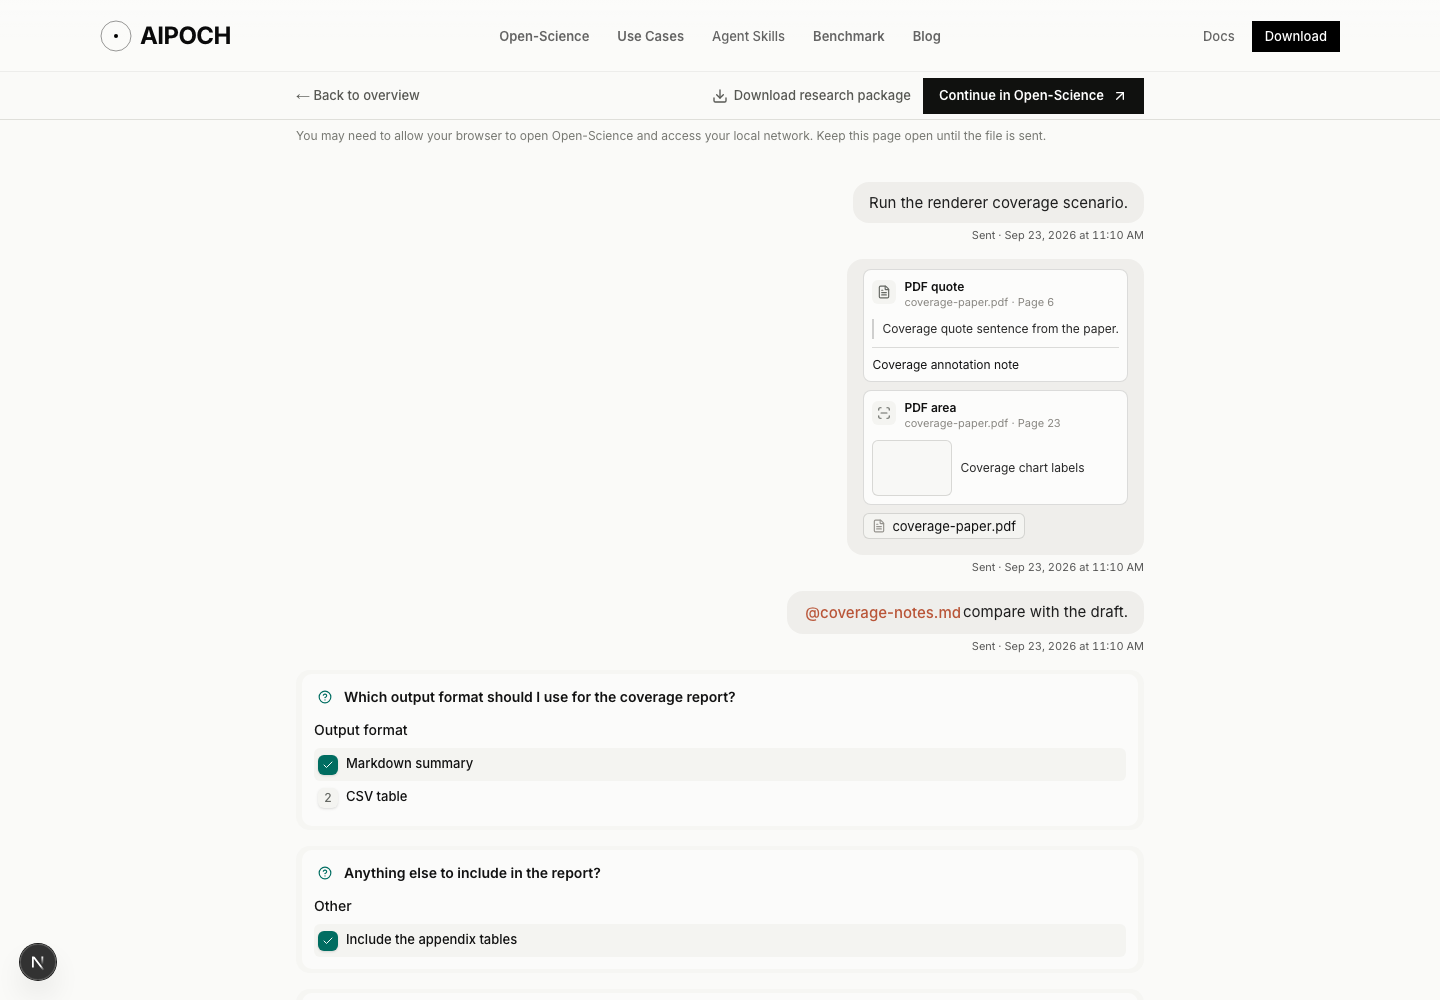
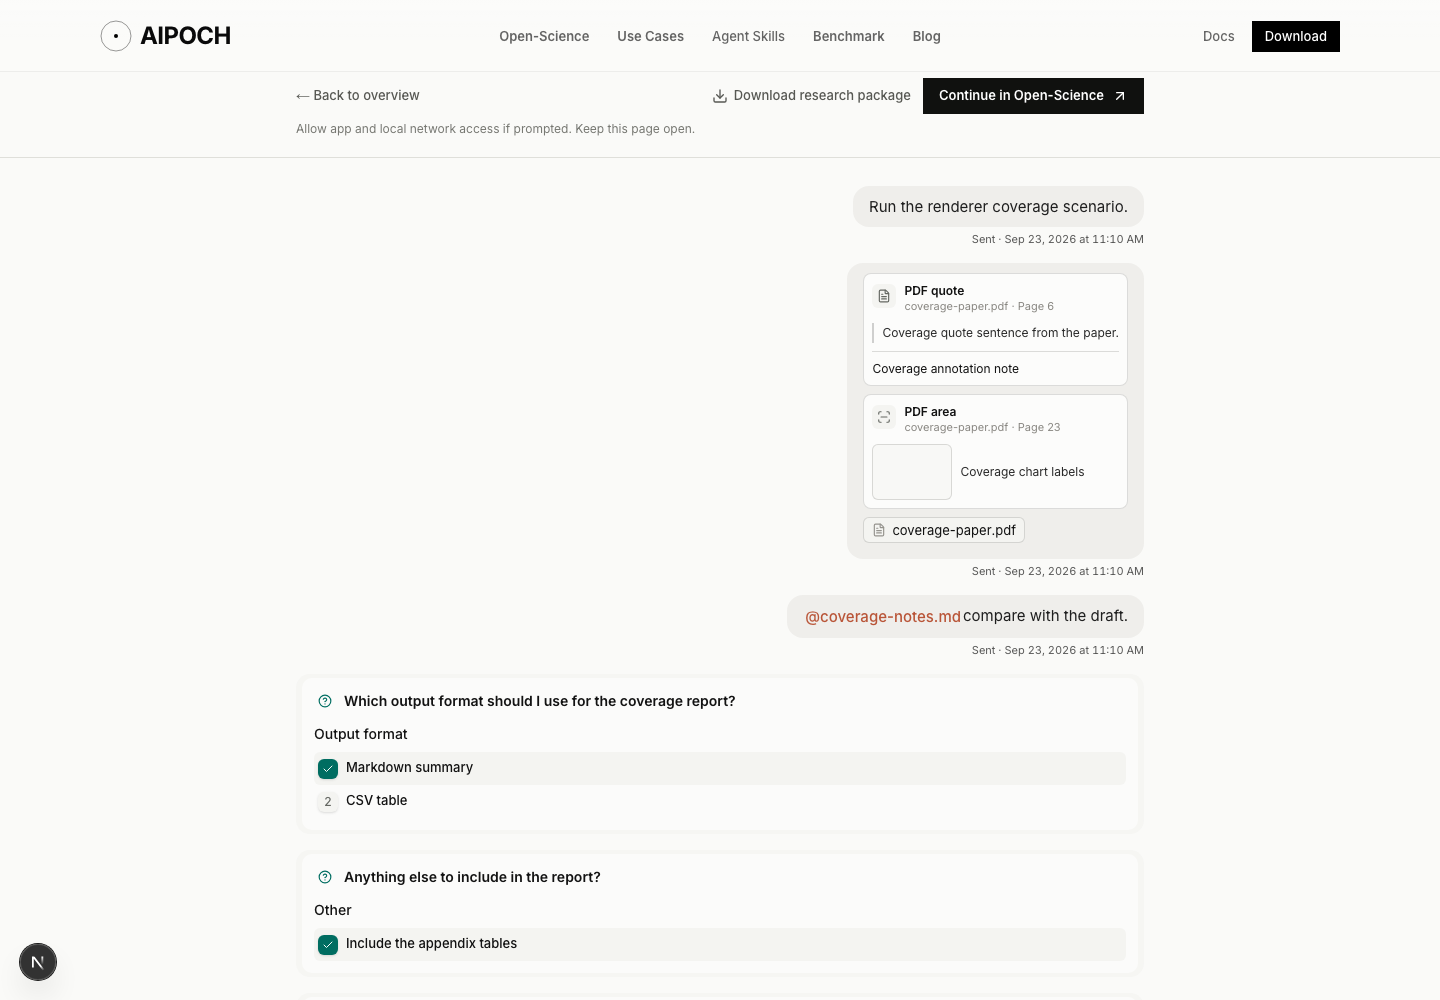
fix(open-science): keep compact import feedback in replay toolbar

diff --git a/app/(commonLayout)/open-science/use-cases/_components/science-import-controls.tsx b/app/(commonLayout)/open-science/use-cases/_components/science-import-controls.tsx
@@ -164,7 +164,7 @@ export const ScienceImportButton = ({
 }
 
 /** Keep every recovery action and browser permission hint beside each entry point. */
-export const ScienceImportFeedback = () => {
+export const ScienceImportFeedback = ({ compact = false }: { compact?: boolean }) => {
   const {
     state,
     session,
@@ -175,15 +175,24 @@ export const ScienceImportFeedback = () => {
   const downloadPrompt = 'download it first'
   const inlineDownload = needsApp && state.message?.endsWith(`${downloadPrompt}.`)
   const waitingTimedOut = state.phase === 'ready' && state.action === 'resume'
+  const opening = state.phase === 'opening' || state.action === 'resume'
+  // The sticky toolbar shows only the current guidance; completed transfers need no permissions.
+  const showPermissionHint = !compact || !state.message || opening
+  const message =
+    compact && state.phase === 'received' ? 'File sent. Confirm in Open-Science.' : state.message
   return (
     <>
-      <p className="mt-1.5 text-xs leading-5 text-[#777872]">
-        <span>
-          {state.phase === 'opening' || state.action === 'resume'
-            ? 'If your browser asks to open Open-Science, choose Open. You may also need to allow local network access.'
-            : 'You may need to allow your browser to open Open-Science and access your local network. Keep this page open until the file is sent.'}
-        </span>
-      </p>
+      {showPermissionHint ? (
+        <p className={`${compact ? '' : 'mt-1.5'} text-xs leading-5 text-[#777872]`}>
+          {compact
+            ? opening
+              ? 'Choose Open and allow local network access if prompted.'
+              : 'Allow app and local network access if prompted. Keep this page open.'
+            : opening
+              ? 'If your browser asks to open Open-Science, choose Open. You may also need to allow local network access.'
+              : 'You may need to allow your browser to open Open-Science and access your local network. Keep this page open until the file is sent.'}
+        </p>
+      ) : null}
       <div className="space-y-2 text-[13px] leading-6 text-[#777872]">
         <div className="flex items-center gap-x-4">
           <p
@@ -213,17 +222,17 @@ export const ScienceImportFeedback = () => {
                 .
               </>
             ) : (
-              state.message
+              message
             )}{' '}
             {state.phase === 'received' ? (
               <span>
-                Clicked Cancel by mistake?{' '}
+                {compact ? '' : 'Clicked Cancel by mistake? '}
                 <button
                   type="button"
                   onClick={() => void session.current?.retryImport()}
                   className="font-medium text-[#10110f] underline underline-offset-4"
                 >
-                  Retry the import.
+                  {compact ? 'Retry import' : 'Retry the import.'}
                 </button>
               </span>
             ) : null}

diff --git a/tests/integration/browser-science-import.test.ts b/tests/integration/browser-science-import.test.ts
@@ -269,7 +269,15 @@ for (const surface of ['composer', 'detail']) {
           'File sent to Open-Science. Please confirm the import in the app.'
         )
         await expect(openButton).toBeEnabled()
-        await expect(otherControls.getByRole('status')).toContainText('File sent to Open-Science')
+        await expect(otherControls.getByRole('status')).toContainText(
+          surface === 'composer'
+            ? 'File sent. Confirm in Open-Science.'
+            : 'File sent to Open-Science'
+        )
+        if (surface === 'composer') {
+          await expect(otherControls.getByText(/allow local network access/)).toHaveCount(0)
+          await expect(otherControls.getByText(/Clicked Cancel by mistake/)).toHaveCount(0)
+        }
         await expect(announcements).toHaveCount(1)
         await expect(announcements).toContainText('File sent to Open-Science')
         const receivedSnapshot = await snapshot()
@@ -285,9 +293,12 @@ for (const surface of ['composer', 'detail']) {
         await expect(controls.getByText(/You may need to allow your browser/)).toBeVisible()
         await expect(controls.getByText('Import successful', { exact: true })).toHaveCount(0)
         unitExpect(downloads).toBe(count + 1)
-        const retryImport = controls
+        const retryImport = (surface === 'composer' ? otherControls : controls)
           .getByRole('status')
-          .getByRole('button', { name: 'Retry the import.', exact: true })
+          .getByRole('button', {
+            name: surface === 'composer' ? 'Retry import' : 'Retry the import.',
+            exact: true
+          })
         await expect(retryImport).toBeVisible()
         await expect(retryImport).toHaveClass(/underline/)
         const beforeRetry = await snapshot()

diff --git a/tests/integration/use-case-import-browser.ts b/tests/integration/use-case-import-browser.ts
@@ -56,8 +56,15 @@ export async function verifyImportPreparation(
       await expect(open).toHaveCSS('background-color', 'rgb(16, 17, 15)')
       await expect(open).toHaveCSS('color', 'rgb(255, 255, 255)')
       await expect(open).toHaveCSS('font-size', '13px')
-      // The original 47px row plus its 1px bottom border.
-      if (!mobile) expect((await composer.boundingBox())?.height).toBe(48)
+      // Keep the original action row; the compact feedback now belongs to the sticky toolbar.
+      if (!mobile) expect((await composer.locator(':scope > div').boundingBox())?.height).toBe(47)
+      await expect(
+        composer.getByRole('region', { name: 'Replay import feedback', exact: true })
+      ).toHaveCount(1)
+      await opposite.scrollIntoViewIfNeeded()
+      await expect(feedback).toBeInViewport()
+      await expect(open).toBeInViewport()
+      await page.evaluate(() => window.scrollTo(0, 0))
       const downloadBox = await composer
         .getByRole('link', { name: 'Download research package', exact: true })
         .boundingBox()
@@ -130,7 +137,8 @@ export async function verifyImportPreparation(
     })
     await expect(busyButton).toBeDisabled()
     await expect(busyButton).toContainText('0%')
-    if (!detail && !mobile) expect((await composer.boundingBox())?.height).toBe(48)
+    if (!detail && !mobile)
+      expect((await composer.locator(':scope > div').boundingBox())?.height).toBe(47)
     await expect(opposite.getByRole('button', { name: /^Downloading/ })).toBeDisabled()
     await expect(composer.getByRole('progressbar')).toHaveCount(0)
     await expect(feedback.getByRole('status')).toBeVisible()

diff --git a/app/(commonLayout)/open-science/use-cases/_components/replay-view.tsx b/app/(commonLayout)/open-science/use-cases/_components/replay-view.tsx
@@ -40,6 +40,14 @@ const TopBar = ({ slug, packageUrl }: { slug: string; packageUrl?: string }) => 
         </>
       ) : null}
     </div>
+    {packageUrl ? (
+      <section
+        aria-label="Replay import feedback"
+        className="mx-auto w-full max-w-4xl px-4 pb-2.5 md:px-6"
+      >
+        <ScienceImportFeedback compact />
+      </section>
+    ) : null}
   </section>
 )
 
@@ -106,14 +114,6 @@ const ReplayFrame = ({
   <ScienceImportProvider key={slug} packageInfo={packageInfo}>
     <main id="top" className="-mt-[var(--nav-h)] flex-1 bg-[#fafaf8] pt-[var(--nav-h)]">
       <TopBar slug={slug} packageUrl={packageInfo?.url} />
-      {packageInfo ? (
-        <section
-          aria-label="Replay import feedback"
-          className="mx-auto w-full max-w-4xl px-4 md:px-6"
-        >
-          <ScienceImportFeedback />
-        </section>
-      ) : null}
       {children}
     </main>
   </ScienceImportProvider>

diff --git a/tests/unit/use-case-replay-actions.test.tsx b/tests/unit/use-case-replay-actions.test.tsx
@@ -39,7 +39,11 @@ test('offers import after download in the replay toolbar while the transcript is
     html.indexOf('Continue in Open-Science')
   )
   expect(html).toMatch(/<button[^>]*bg-\[#10110f\][^>]*text-white/)
-  expect(html).toContain('Keep this page open until the file is sent.')
+  expect(html).toContain('Allow app and local network access if prompted. Keep this page open.')
+  const toolbar = html.slice(html.indexOf('aria-label="Replay import actions"'))
+  expect(toolbar.indexOf('aria-label="Replay import feedback"')).toBeLessThan(
+    toolbar.indexOf('</section>')
+  )
   expect(html).not.toContain('What would you explore next?')
 })
 

diff --git a/tests/fixtures/browser-import-page.tsx b/tests/fixtures/browser-import-page.tsx
@@ -31,7 +31,7 @@ root.render(
     <ScienceImportProvider packageInfo={packageInfo}>
       <section aria-label="Replay import actions">
         <ScienceImportButton variant="toolbar" />
-        <ScienceImportFeedback />
+        <ScienceImportFeedback compact />
       </section>
       <ImportComposer />
     </ScienceImportProvider>
